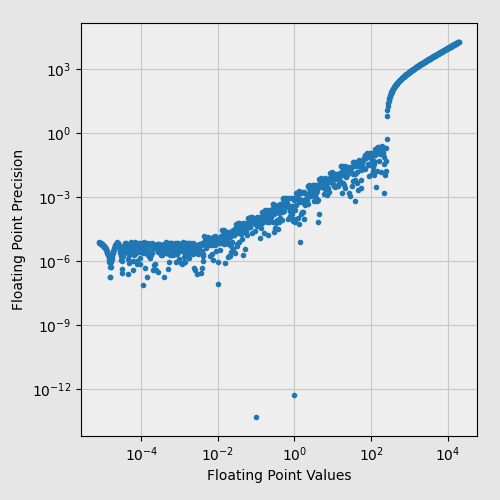
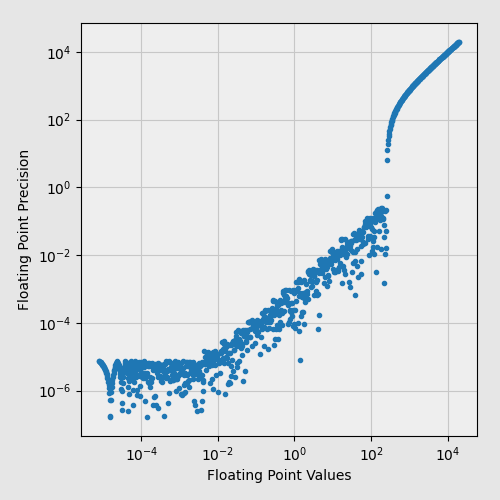
NewTypeX2

diff --git a/conversion_test.go b/conversion_test.go
@@ -46,6 +46,24 @@ func getToyfloatPositiveSample() []struct {
 
 // ------------------------
 
+func TestX2BadArguments(t *testing.T) {
+	for i := -10; i <= 20; i++ {
+		if (i <= 3) || (i > 16) {
+			_, e := NewTypeX2(i, true)
+			if e == nil {
+				t.Fatalf("length=%d must result in an error", i)
+			}
+		}
+
+		if (i <= 2) || (i > 16) {
+			_, e := NewTypeX2(i, false)
+			if e == nil {
+				t.Fatalf("length=%d must result in an error (unsigned)", i)
+			}
+		}
+	}
+}
+
 func TestX3BadArguments(t *testing.T) {
 	for i := -10; i <= 20; i++ {
 		if (i <= 4) || (i > 16) {
@@ -80,6 +98,15 @@ func TestX4BadArguments(t *testing.T) {
 			}
 		}
 	}
+}
+
+func makeTypeX2(length int, signed bool, t *testing.T) Type {
+	tfType, err := NewTypeX2(length, signed)
+	if err != nil {
+		t.Fatal(err)
+	}
+
+	return tfType
 }
 
 func makeTypeX3(length int, signed bool, t *testing.T) Type {
@@ -1539,7 +1566,7 @@ func Test15X3MinusBitPosition(t *testing.T) {
 }
 
 func TestReadme(t *testing.T) {
-	const input = 0.345
+	const input = 1.567
 	const eps = 1e-6
 
 	toyfloat12 := makeTypeX4(12, true, t)
@@ -1549,71 +1576,84 @@ func TestReadme(t *testing.T) {
 
 	toyfloat15x3 := makeTypeX3(15, true, t)
 	toyfloat5x3 := makeTypeX3(5, true, t)
+	toyfloat5x2 := makeTypeX2(5, true, t)
 
 	{
 		tf := toyfloat12.Encode(input)
-		if tf != 0x332 {
+		if tf != 0x448 {
 			t.Fatalf("Incorrect encoded: 0x%X (12-bit)\n", tf)
 		}
 
 		result := toyfloat12.Decode(tf)
-		if math.Abs(result-0.345098) > eps {
+		if math.Abs(result-1.564706) > eps {
 			t.Fatalf("Incorrect decoded: %f (12-bit)\n", result)
 		}
 	}
 
 	{
 		tf := toyfloat12u.Encode(input)
-		if tf != 0x664 {
+		if tf != 0x891 {
 			t.Fatalf("Incorrect encoded: 0x%X (12-bit unsigned)\n", tf)
 		}
 	}
 
 	{
 		tf := toyfloat13.Encode(input)
-		if tf != 0x664 {
+		if tf != 0x891 {
 			t.Fatalf("Incorrect encoded: 0x%X (13-bit)\n", tf)
 		}
 
 		result := toyfloat13.Decode(tf)
-		if math.Abs(result-0.345098) > eps {
+		if math.Abs(result-1.568627) > eps {
 			t.Fatalf("Incorrect decoded: %f (13-bit)\n", result)
 		}
 	}
 
 	{
 		tf := toyfloat14.Encode(input)
-		if tf != 0xCC8 {
+		if tf != 0x1121 {
 			t.Fatalf("Incorrect encoded: 0x%X (14-bit)\n", tf)
 		}
 
 		result := toyfloat14.Decode(tf)
-		if math.Abs(result-0.345098) > eps {
+		if math.Abs(result-1.566667) > eps {
 			t.Fatalf("Incorrect decoded: %f (14-bit)\n", result)
 		}
 	}
 
 	{
 		tf := toyfloat15x3.Encode(input)
-		if tf != 0x235E {
+		if tf != 0x3477 {
 			t.Fatalf("Incorrect encoded: 0x%X (15x3)\n", tf)
 		}
 
 		result := toyfloat15x3.Decode(tf)
-		if math.Abs(result-0.344990) > eps {
+		if math.Abs(result-1.566964) > eps {
 			t.Fatalf("Incorrect decoded: %f (15x3)\n", result)
 		}
 	}
 
 	{
 		tf := toyfloat5x3.Encode(input)
-		if tf != 0b1001 {
-			t.Fatalf("Incorrect encoded: 0x%b (5x3)\n", tf)
+		if tf != 0b01101 {
+			t.Fatalf("Incorrect encoded: %05b (5x3)\n", tf)
 		}
 
 		result := toyfloat5x3.Decode(tf)
-		if math.Abs(result-0.365079) > eps {
+		if math.Abs(result-1.507937) > eps {
 			t.Fatalf("Incorrect decoded: %f (5x3)\n", result)
+		}
+	}
+
+	{
+		tf := toyfloat5x2.Encode(input)
+		if tf != 0b01110 {
+			t.Fatalf("Incorrect encoded: %05b (5x2)\n", tf)
+		}
+
+		result := toyfloat5x2.Decode(tf)
+		if math.Abs(result-1.571429) > eps {
+			t.Fatalf("Incorrect decoded: %f (5x2)\n", result)
 		}
 	}
 

diff --git a/images/plot.py b/images/plot.py
@@ -2,7 +2,7 @@ import matplotlib.pyplot as plt
 import csv
 import numpy as np
 
-def get_data(data_fn):
+def get_data(data_fn, max_value):
     values = []
     precision = []
 
@@ -13,7 +13,7 @@ def get_data(data_fn):
         v = float(row[0])
         p = float(row[1])
 
-        if v < 20000:
+        if (v < max_value) and (p > 1e-7):
             values.append(v)
             precision.append(p)
 
@@ -21,7 +21,7 @@ def get_data(data_fn):
 
 
 def get_comparison_data(data_fn, minPowerX10 = -22, maxPowerX10 = 21):
-    values, precision = get_data(data_fn)
+    values, precision = get_data(data_fn, 20000)
     assert len(values) == len(precision)
 
     rv, pv = [], []
@@ -84,8 +84,8 @@ def new_figure():
     return figure, axes
 
 
-def make_image(data_fn, result_fn):
-    values, precision = get_data(data_fn)
+def make_image(data_fn, result_fn, max_value = 20000):
+    values, precision = get_data(data_fn, max_value)
 
     figure, ax = new_figure()
     figure.set_size_inches(5, 5)
@@ -115,11 +115,14 @@ def make_comparison(result_fn):
     values, precision = get_comparison_data('precision15x3.tsv', minPowerX10=-20, maxPowerX10=8)
     plt.plot(values, precision, '-', label='15x3')
 
-    values, precision = get_comparison_data('precision16u.tsv')
-    plt.plot(values, precision, '-', label='16u')
+    values, precision = get_comparison_data('precision15x2.tsv', minPowerX10=-9, maxPowerX10=3)
+    plt.plot(values, precision, '-', color='tab:pink', label='15x2')
+
+#     values, precision = get_comparison_data('precision16u.tsv')
+#     plt.plot(values, precision, '-', label='16u')
 
     values, precision = get_comparison_data('precision16x3u.tsv', minPowerX10=-20, maxPowerX10=8)
-    plt.plot(values, precision, '-', label='16x3u')
+    plt.plot(values, precision, '-', color='tab:gray', label='16x3u')
 
     ax.legend()
 
@@ -131,7 +134,8 @@ if __name__ == "__main__":
     make_image('precision12u.tsv', 'precision12u.png')
     make_image('precision13.tsv', 'precision13.png')
     make_image('precision14.tsv', 'precision14.png')
-    make_image('precision15x3.tsv', 'precision15x3.png')
+    make_image('precision15x3.tsv', 'precision15x3.png', 2.0)
+    make_image('precision15x2.tsv', 'precision15x2.png', 2.0)
     make_image('precision8x3.tsv', 'precision8x3.png')
     make_image('precision4x3u.tsv', 'precision4x3u.png')
     make_image('precision16.tsv', 'precision16.png')

diff --git a/readme/example.go b/readme/example.go
@@ -1,36 +1,3 @@
-# Toyfloat
-
-It encodes and decodes floating-point numbers with a width of 4 to 16 bits.
-
-Expected applications:
-
-* file format design,
-* lossy compression.
-
-It has:
-
-* exact 0, 1, -1
-* no NaN
-* values, that are in range about:
-  * (-256, +256) for 4-bit exponent
-  * (-4, +4) for 3-bit exponent
-  * (-2, +2) for 2-bit exponent
-
-![Formula](images/formula.png)
-
-```
-____ sxxx xmmm mmmm - 12-bit
-____ xxxx mmmm mmmm - 12-bit unsigned
-___s xxxx mmmm mmmm - 13-bit
-__sx xxxm mmmm mmmm - 14-bit
-_sxx xmmm mmmm mmmm - 15-bit with 3-bit exponent
-```
-
-![Precision graph](images/comparison.png)
-
-## Usage
-
-```go
 package main
 
 import (
@@ -148,64 +115,3 @@ func main() {
 
 	println()
 }
-```
-
-```shell
-go get -u github.com/georgy7/toyfloat
-go run example.go
-```
-
-```
-Input:   1.567000
-
-12-bit signed
--------------
-Encoded: 0x448
-Decoded: 1.564706
-Delta:   0.002294
-
-13-bit signed
--------------
-Encoded: 0x891
-Decoded: 1.568627
-Delta:   0.001627
-
-14-bit signed
--------------
-Encoded: 0x1121
-Decoded: 1.566667
-Delta:   0.000333
-
-15-bit signed with 3-bit exponent
----------------------------------
-Encoded: 0x3477
-Decoded: 1.566964
-Delta:   0.000036
-
-5-bit signed with 3-bit exponent
---------------------------------
-Encoded: 01101
-Decoded: 1.507937
-Delta:   0.059063
-
-5-bit signed with 2-bit exponent
---------------------------------
-Encoded: 01110
-Decoded: 1.571429
-Delta:   0.004429
-
-
-Delta encoding (12-bit)
------------------------
-
-  Int. delta    Fp delta    Value
-                            -0.005821
-        +387    +0.015809    0.009988
-        +300    +0.056189    0.066176
-        +114    +0.056373    0.122549
-         +12    +0.011765    0.134314
-          -2    -0.001961    0.132353
-         +12    +0.011765    0.144118
-          +1    +0.000980    0.145098
-          -5    -0.004902    0.140196
-```

diff --git a/conversion.go b/conversion.go
@@ -12,6 +12,11 @@ type Type struct {
 	settings settings
 }
 
+func NewTypeX2(length int, signed bool) (Type, error) {
+	s, e := newSettings(length, x2(), signed)
+	return Type{s}, e
+}
+
 func NewTypeX3(length int, signed bool) (Type, error) {
 	s, e := newSettings(length, x3(), signed)
 	return Type{s}, e
@@ -200,6 +205,17 @@ func x3() xConstants {
 		maxExponent:         -6 + 7,
 		twoPowerMinExponent: 1.0 / 64.0,
 		twoPowerMaxExponent: 2.0,
+	}
+}
+
+func x2() xConstants {
+	return xConstants{
+		xMask:               0b11,
+		xSize:               2,
+		minExponent:         -3,
+		maxExponent:         0,
+		twoPowerMinExponent: 1.0 / 8.0,
+		twoPowerMaxExponent: 1.0,
 	}
 }
 

diff --git a/images/gen_precision.go b/images/gen_precision.go
@@ -58,6 +58,9 @@ func main() {
 	toyfloat15x3, err15x3 := toyfloat.NewTypeX3(15, true)
 	exitOnError(err15x3)
 
+	toyfloat15x2, err15x2 := toyfloat.NewTypeX2(15, true)
+	exitOnError(err15x2)
+
 	toyfloat8x3, err8x3 := toyfloat.NewTypeX3(8, true)
 	exitOnError(err8x3)
 
@@ -91,6 +94,10 @@ func main() {
 
 	generate("precision15x3.tsv", func(x float64) float64 {
 		return toyfloat15x3.Decode(toyfloat15x3.Encode(x))
+	})
+
+	generate("precision15x2.tsv", func(x float64) float64 {
+		return toyfloat15x2.Decode(toyfloat15x2.Encode(x))
 	})
 
 	generate("precision8x3.tsv", func(x float64) float64 {

diff --git a/images/formula.tex b/images/formula.tex
@@ -36,6 +36,12 @@
 
         \\
 
+            \vbox{\begin{equation*}\tag{2 bits}
+            \{ x \in \mathbb{Z} \mid -3 \leq x \leq 0 \}
+            \end{equation*}}
+
+        \\
+
             \vbox{\begin{equation*}
             a = (1 + \frac{0}{2^{M}}) \cdot 2^{\min{X}}
             \quad \quad
